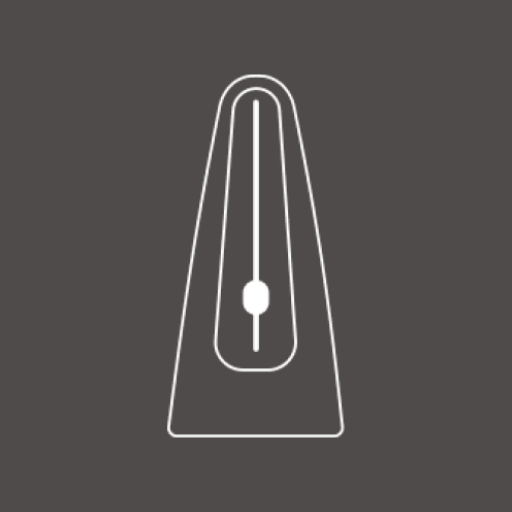
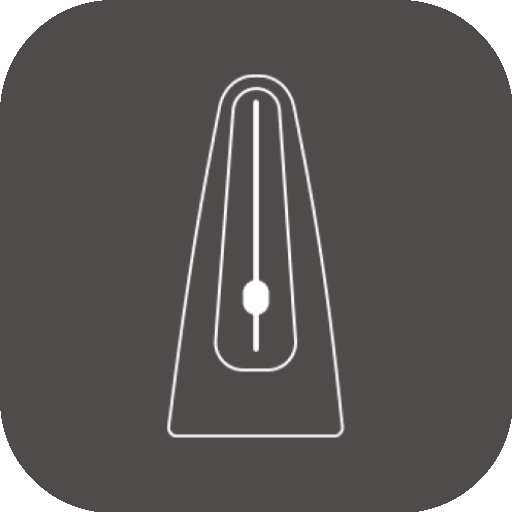
Round corners of image files for GitHub compatibility

diff --git a/README.md b/README.md
@@ -1,9 +1,9 @@
-# <img src="docs/icon.png" width="32" style="border-radius: 22%; vertical-align: middle; margin-bottom: 4px;"> Metronome App
+# <img src="docs/icon.png" width="32" style="vertical-align: middle; margin-bottom: 4px;"> Metronome App
 
 Android metronome built with a focus on precision and a UI based on physical components.
 
 <p align="center">
-  <img src="docs/screenshot.png" width="220" style="border-radius: 40px;" />
+  <img src="docs/screenshot.png" width="220" />
 </p>
 
 ## Features
